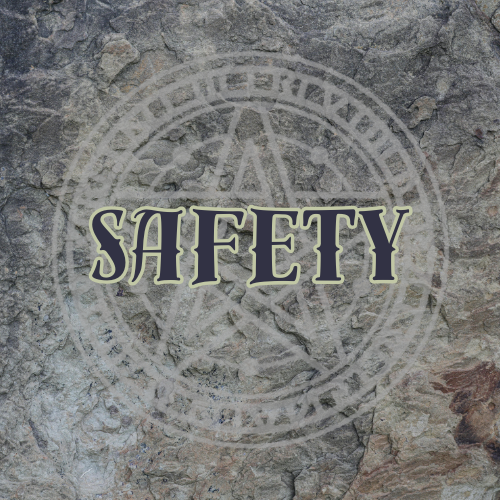
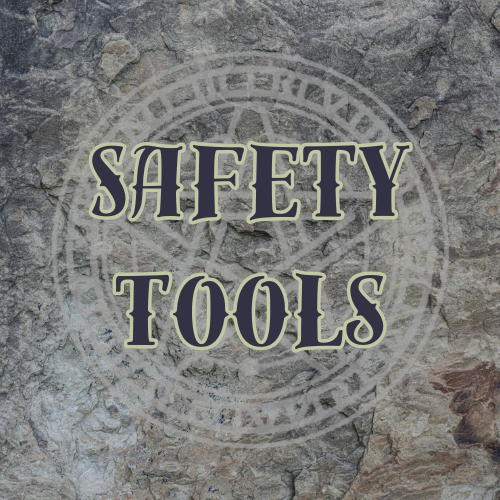
Published multiple files

Changed region(s): [[0.18, 0.27, 0.84, 0.72]]

diff --git a/src/site/notes/z_Website/Home Page.md b/src/site/notes/z_Website/Home Page.md
@@ -22,6 +22,14 @@ These records catalogue student cohorts, faculty, academic proceedings, and offi
 | **[[z_Website/Player Characters\|Player Characters]]**  | **[[z_Website/Group Cup Challenge\|Group Cup Challenge]]** | **[[z_Website/Appointments\|Book an Appointment]]** |
 | ![Session Journals.png](/img/user/z_Assets/website/Session%20Journals.png)  |       ![Quests.png](/img/user/z_Assets/website/Quests.png)       |             ![Handouts.png](/img/user/z_Assets/website/Handouts.png)             |
 |  **[[z_Website/Session Journals\|Session Journals]]**  |       **[[z_Website/Quests\|Quests]]**        |          **[[z_Website/Player Handouts\|Player Handouts]]**          |
+<div class="img-grid cols-3">
+  <a href="/player-characters/" class="img-btn"><img src="/img/Homepage%20Buttons/Player%20Characters.png" alt="Player Characters"></a>
+  <a href="/group-cup-challenge/" class="img-btn"><img src="/img/Homepage%20Buttons/Group%20Cup.png" alt="Group Cup Challenge"></a>
+  <a href="/appointments/" class="img-btn"><img src="/img/Homepage%20Buttons/Appointments.png" alt="Book an Appointment"></a>
+  <a href="/session-journals/" class="img-btn"><img src="/img/Homepage%20Buttons/Session%20Journals.png" alt="Session Journals"></a>
+  <a href="/quests/" class="img-btn"><img src="/img/Homepage%20Buttons/Quests.png" alt="Quests"></a>
+  <a href="/player-handouts/" class="img-btn"><img src="/img/Homepage%20Buttons/Handouts.png" alt="Player Handouts"></a>
+</div>
 
 
 ---
@@ -40,12 +48,25 @@ These records catalogue student cohorts, faculty, academic proceedings, and offi
 | :---------------------------------------------------------------------: | :---------------------------------------------------------: | :-----------------------------------------------: |
 | [Neverwood Academy](https://www.neverwood.co.uk/neverwood-academy-map/) | [Neverwinter](https://www.neverwood.co.uk/neverwinter-map/) | [Faerûn](https://www.neverwood.co.uk/faerun-map/) |
 
+<div class="img-grid cols-3">
+  <a href="https://www.neverwood.co.uk/neverwood-academy-map/" class="img-btn" target="_blank" rel="noopener"><img src="/img/Homepage%20Buttons/Neverwood%20Map.png" alt="Neverwood Academy Map"></a>
+  <a href="https://www.neverwood.co.uk/neverwinter-map/" class="img-btn" target="_blank" rel="noopener"><img src="/img/Homepage%20Buttons/Neverwinter%20Map.png" alt="Neverwinter City Map"></a>
+  <a href="https://www.neverwood.co.uk/faerun-map/" class="img-btn" target="_blank" rel="noopener"><img src="/img/Homepage%20Buttons/Faerun%20Map.png" alt="Faerûn Continental Map"></a>
+</div>
+
 ---
 ## 🏛 World Lore
 
-|   ![Neverwood sq.png](/img/user/z_Assets/website/Neverwood%20sq.png)   |     ![Staff.png](/img/user/z_Assets/website/Staff.png)      | ![Neverwinter square.png](/img/user/z_Assets/website/Neverwinter%20square.png) | ![The North.png](/img/user/z_Assets/The%20Pub%20That%20Crawls/The%20North.png) | ![z_Assets/website/Faerûn.png](/img/user/z_Assets/website/Faer%C3%BBn.png) |
-| :-----------------------: | :---------------------: | :-------------------------: | :----------------: | :------------------------------: |
-| **[[2-World/Hubs/Neverwood Academy\|Neverwood Academy]]** | **[[2-World/Groups/Neverwood Staff\|Neverwood Staff]]** |       **[[2-World/Hubs/Neverwinter\|Neverwinter]]**       |   **[[2-World/Regions/The North\|The North]]**    |          **[[2-World/Continents/Faerûn\|Faerûn]]**          |
+|   ![Neverwood sq.png](/img/user/z_Assets/website/Neverwood%20sq.png)   |     ![Staff.png](/img/user/z_Assets/website/Staff.png)      | ![Neverwinter square.png](/img/user/z_Assets/website/Neverwinter%20square.png) | ![The North.png](/img/user/z_Assets/website/The%20North.png) | ![z_Assets/website/Faerûn.png](/img/user/z_Assets/website/Faer%C3%BBn.png) |                               |
+|:-------------------------:|:-----------------------:|:---------------------------:|:------------------:|:--------------------------------:| ----------------------------- |
+| **[[2-World/Hubs/Neverwood Academy\|Neverwood Academy]]** | **[[2-World/Groups/Neverwood Staff\|Neverwood Staff]]** |     **[[2-World/Hubs/Neverwinter\|Neverwinter]]**     | **[[2-World/Regions/The North\|The North]]**  |          **[[2-World/Continents/Faerûn\|Faerûn]]**          |
+<div class="img-grid cols-5">
+  <a href="/neverwood-academy/" class="img-btn"><img src="/img/Homepage%20Buttons/Neverwood%20sq.png" alt="Neverwood Academy"></a>
+  <a href="/neverwood-staff/" class="img-btn"><img src="/img/Homepage%20Buttons/Staff.png" alt="Neverwood Staff"></a>
+  <a href="/neverwinter/" class="img-btn"><img src="/img/Homepage%20Buttons/Neverwinter%20square.png" alt="Neverwinter"></a>
+  <a href="/the-north/" class="img-btn"><img src="/img/Homepage%20Buttons/The%20North.png" alt="The North"></a>
+  <a href="/faerun/" class="img-btn"><img src="/img/Homepage%20Buttons/Faer%C3%BBn.png" alt="Faerûn"></a>
+</div>
 
 #### **[[z_Website/World\|Explore the rest of the Multiverse]]**
 
@@ -103,13 +124,15 @@ FantasyCalendar({
 | ![Pasted image 20250929163117.png](/img/user/z_Assets/website/Pasted%20image%2020250929163117.png)                                     | ![Rules.png](/img/user/z_Assets/website/Rules.png)      | ![Homebrew Mechanics.png](/img/user/z_Assets/website/Homebrew%20Mechanics.png) | ![Downtime.png](/img/user/z_Assets/website/Downtime.png)           | ![Safety.png](/img/user/z_Assets/website/Safety.png)      |
 | ------------------------------------------------------------------------ | ------------------- | --------------------------- | --------------------------- | -------------------- |
 | **[Virtual Table Top](https://neverwood-academy.eu.forge-vtt.com/join)** | **[[z_Website/House Rules\|House Rules]]** | **[[z_Website/Homebrew Mechanics\|Homebrew Mechanics]]**  | **[[z_Website/Downtime Activities\|Downtime Activities]]** | **[[z_Website/Safety Tools\|Safety Tools]]** |
+
 <div class="img-grid cols-5">
-  <a href="https://neverwood-academy.eu.forge-vtt.com/join" class="img-btn" target="_blank" rel="noopener"><img src="/img/user/z_Assets/website/Pasted%20image%2020250929163117.png" alt="Virtual Table Top"></a>
-  <a href="/house-rules/" class="img-btn"><img src="/img/user/z_Assets/website/Rules.png" alt="House Rules"></a>
-  <a href="/homebrew-mechanics/" class="img-btn"><img src="/img/user/z_Assets/website/Homebrew%20Mechanics.png" alt="Homebrew Mechanics"></a>
-  <a href="/downtime-activities/" class="img-btn"><img src="/img/user/z_Assets/website/Downtime.png" alt="Downtime Activities"></a>
-  <a href="/safety-tools/" class="img-btn"><img src="/img/user/z_Assets/website/Safety.png" alt="Safety Tools"></a>
+  <a href="https://neverwood-academy.eu.forge-vtt.com/join" class="img-btn" target="_blank" rel="noopener"><img src="/img/Homepage%20Buttons/VTT.png" alt="Virtual Table Top"></a>
+  <a href="/house-rules/" class="img-btn"><img src="/img/Homepage%20Buttons/Rules.png" alt="House Rules"></a>
+  <a href="/homebrew-mechanics/" class="img-btn"><img src="/img/Homepage%20Buttons/Homebrew%20Mechanics.png" alt="Homebrew Mechanics"></a>
+  <a href="/downtime-activities/" class="img-btn"><img src="/img/Homepage%20Buttons/Downtime.png" alt="Downtime Activities"></a>
+  <a href="/safety-tools/" class="img-btn"><img src="/img/Homepage%20Buttons/Safety.png" alt="Safety Tools"></a>
 </div>
+
 
 ---
 *Disclaimer: A degree from Neverwood Academy does not provide protection from magic missiles, fireballs, freezing spheres, or any other deleterious effects spellcasters might generate. If you create deleterious effects, Neverwood kindly requests you refrain from invoking any names, symbols, or other references to the academy should you find yourself in a confrontation. Neverwood Academy does not take responsibility for any injury of any nature sustained in the course of anything, magical or otherwise.*

diff --git a/src/site/notes/2-Quests/Campus Daredevils.md b/src/site/notes/2-Quests/Campus Daredevils.md
@@ -10,12 +10,12 @@
 > ![Template_Quest_Placeholder.png](/img/user/z_Assets/Placeholder%20Images/Template_Quest_Placeholder.png)
 > ###### Basic Info
 > | Date Obtained: | 10/01/2026 |
-| ----------------- | -------------------------- |
-| Status: | Not Started |
-| Quest Giver: | [[2-World/People/Neverwood Academy/Students/1507/Javenesh Stoutclaw\|Javenesh Stoutclaw]] |
-| Quest Location:   | [[2-World/Points of Interest/Neverwood Academy/Captain Dapplewing's Manor\|Captain Dapplewing's Manor]], [[2-World/Places/Central Campus\|Central Campus]], [[2-World/Hubs/Neverwood Academy\|Neverwood Academy]]      |
-| Session Obtained: | [[1-Session Journals/1508-1509 - First Year/2026-01-10 - Session 25\|2026-01-10 - Session 25]] |
-| Acquired Loot:    | None |
+> | ----------------- | -------------------------- |
+> | Status: | Not Started |
+> | Quest Giver: | [[2-World/People/Neverwood Academy/Students/1507/Javenesh Stoutclaw\|Javenesh Stoutclaw]] |
+> | Quest Location:   | [[2-World/Points of Interest/Neverwood Academy/Captain Dapplewing's Manor\|Captain Dapplewing's Manor]], [[2-World/Places/Central Campus\|Central Campus]], [[2-World/Hubs/Neverwood Academy\|Neverwood Academy]]      |
+> | Session Obtained: | [[1-Session Journals/1508-1509 - First Year/2026-01-10 - Session 25\|2026-01-10 - Session 25]] |
+> | Acquired Loot:    | None |
 
 # Backstory
 A short while after their second Magical Physiologies Exam, one of the characters is intercepted by a familiar face. [[2-World/People/Neverwood Academy/Students/1507/Javenesh Stoutclaw\|Javenesh Stoutclaw]], a confident second-year student, rushes past, presses a crumpled, slightly damp note into their hand, gives an exaggerated wink, and vanishes back into the crowd.

diff --git a/src/site/notes/2-Quests/Colours in Chaos.md b/src/site/notes/2-Quests/Colours in Chaos.md
@@ -8,12 +8,12 @@
 > ![Template_Quest_Placeholder.png](/img/user/z_Assets/Placeholder%20Images/Template_Quest_Placeholder.png)
 > ###### Basic Info
 > | Date Obtained: | 23/10/2025 |
-| ----------------- | -------------------------- |
-| Status: | In Progress |
-| Quest Giver: | Unknown |
-| Quest Location:   | [[2-World/Points of Interest/Neverwood Academy/Conjurot Hall\|Conjurot Hall]], [[2-World/Places/Prismari Campus\|Prismari Campus]], [[2-World/Hubs/Neverwood Academy\|Neverwood Academy]]      |
-| Session Obtained: | [[1-Session Journals/1508-1509 - First Year/2025-10-23 - Rain Async\|2025-10-23 - Rain Async]] |
-| Acquired Loot:    | None |
+> | ----------------- | -------------------------- |
+> | Status: | In Progress |
+> | Quest Giver: | Unknown |
+> | Quest Location:   | [[2-World/Points of Interest/Neverwood Academy/Conjurot Hall\|Conjurot Hall]], [[2-World/Places/Prismari Campus\|Prismari Campus]], [[2-World/Hubs/Neverwood Academy\|Neverwood Academy]]      |
+> | Session Obtained: | [[1-Session Journals/1508-1509 - First Year/2025-10-23 - Rain Async\|2025-10-23 - Rain Async]] |
+> | Acquired Loot:    | None |
 
 # Backstory
 The [[2-World/Groups/Extracurricular Club/Distinguished Society of Fine Artists\|Distinguished Society of Fine Artists]] hosts its annual exhibition — a dazzling showcase where students infuse raw magic into living art. As the halls bloom with sound and colour, [[1-Party/H'er/H'er\|H'er's]] work stands among the most captivating pieces: a prismatic construct that responds to her emotions.
